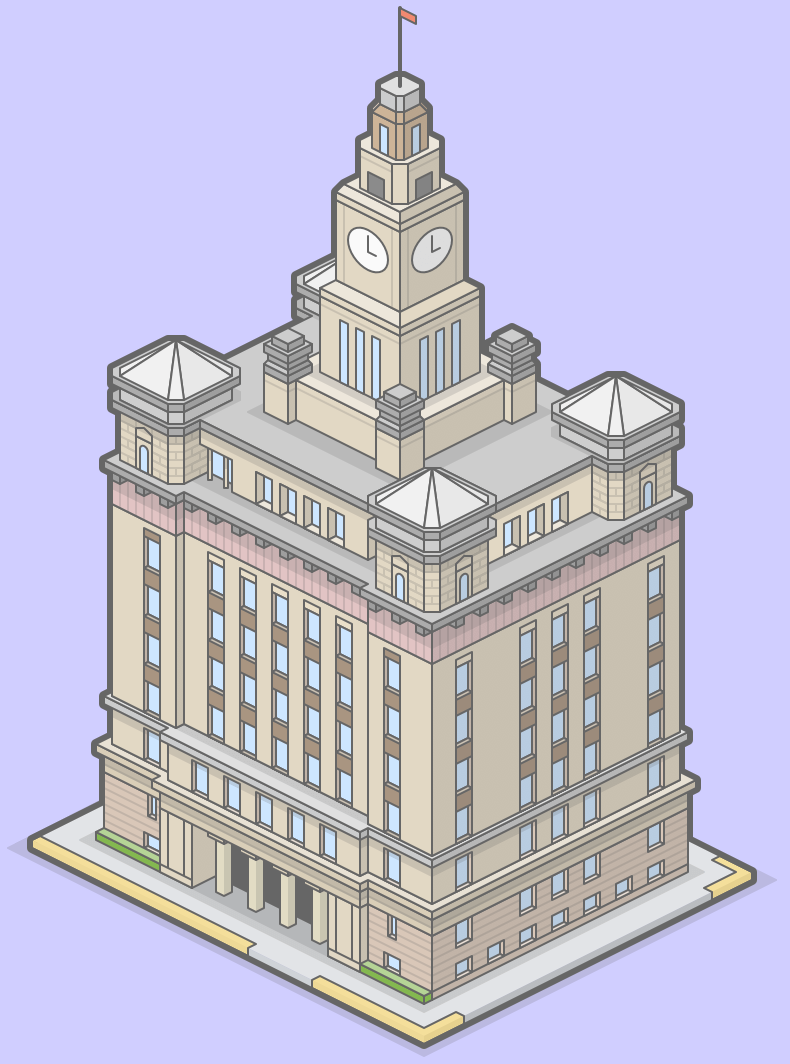
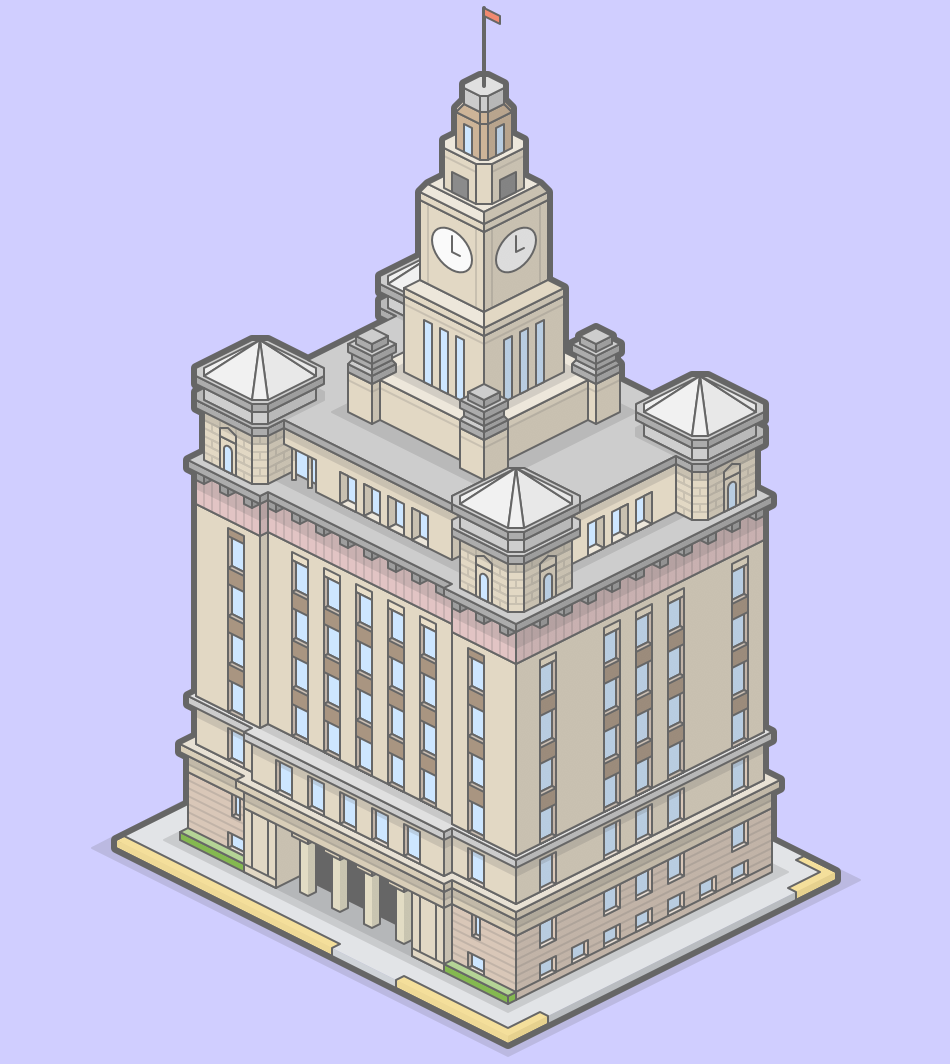
update

diff --git a/pages/3-2-2_vector_isometric-shanghai.html b/pages/3-2-2_vector_isometric-shanghai.html
@@ -131,7 +131,7 @@
             <div class="isometricBImg" style="background-color: #D0CEFF">
               <br><br><br><br>
               <figure align="center">
-                <img src="../media/albums/helloShanghai/haiguandalou.png" style="max-width: 395px" alt="">
+                <img src="../media/albums/helloShanghai/haiguandalou.png" style="max-width: 475px" alt="">
               </figure>
               <div class="isometricText">
                 <br>
@@ -327,7 +327,7 @@
     <style media="screen">
       .isometricContainer h6 {
         text-align: center;
-        font-size: 20px;
+        font-size: 18px;
         margin: 8px;
         color: #666666;
       }
